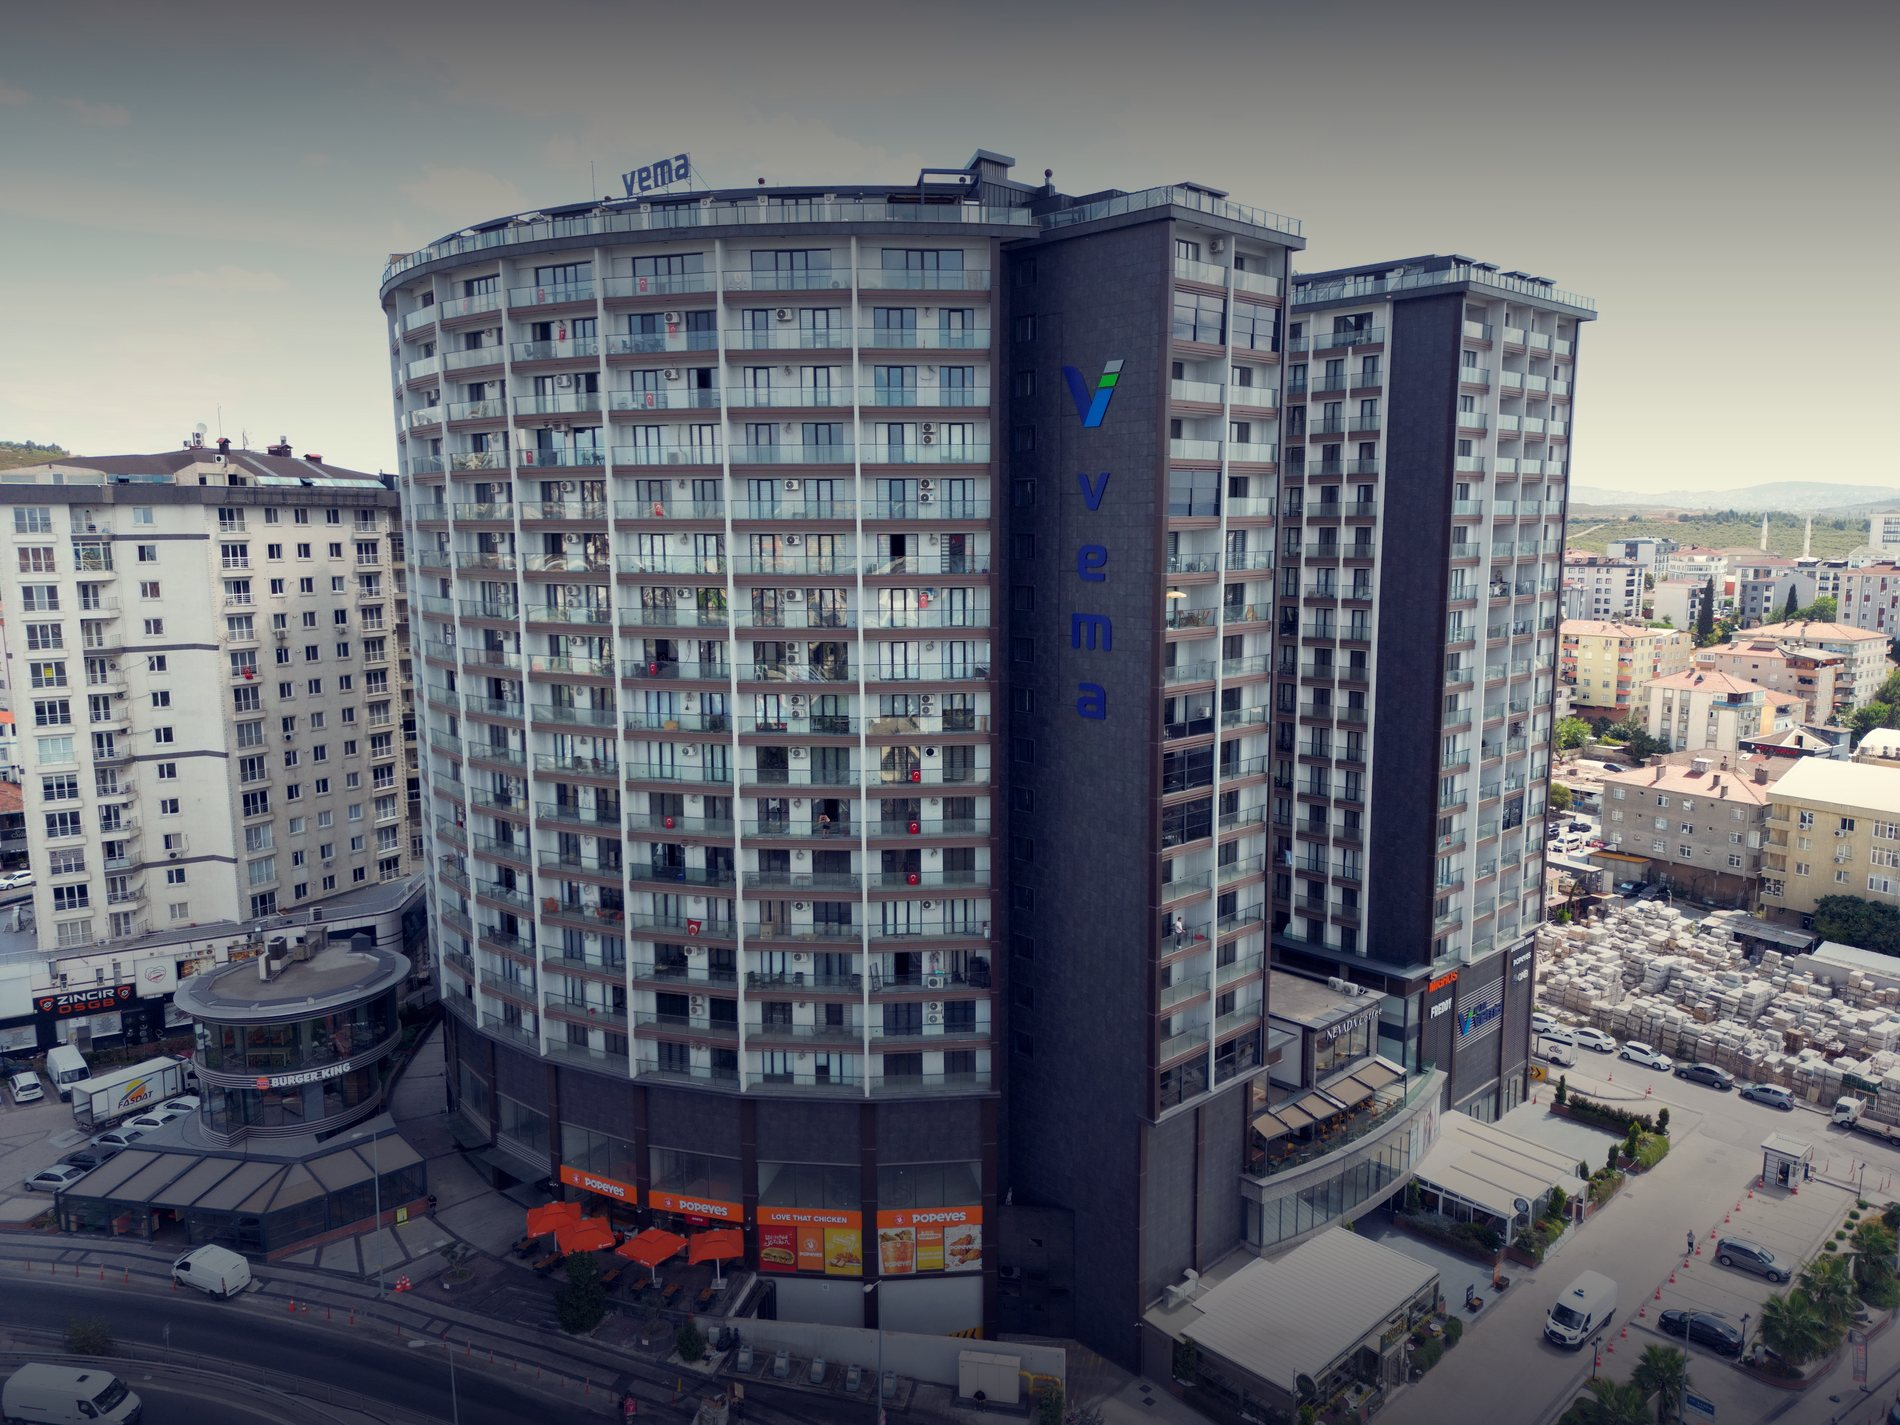
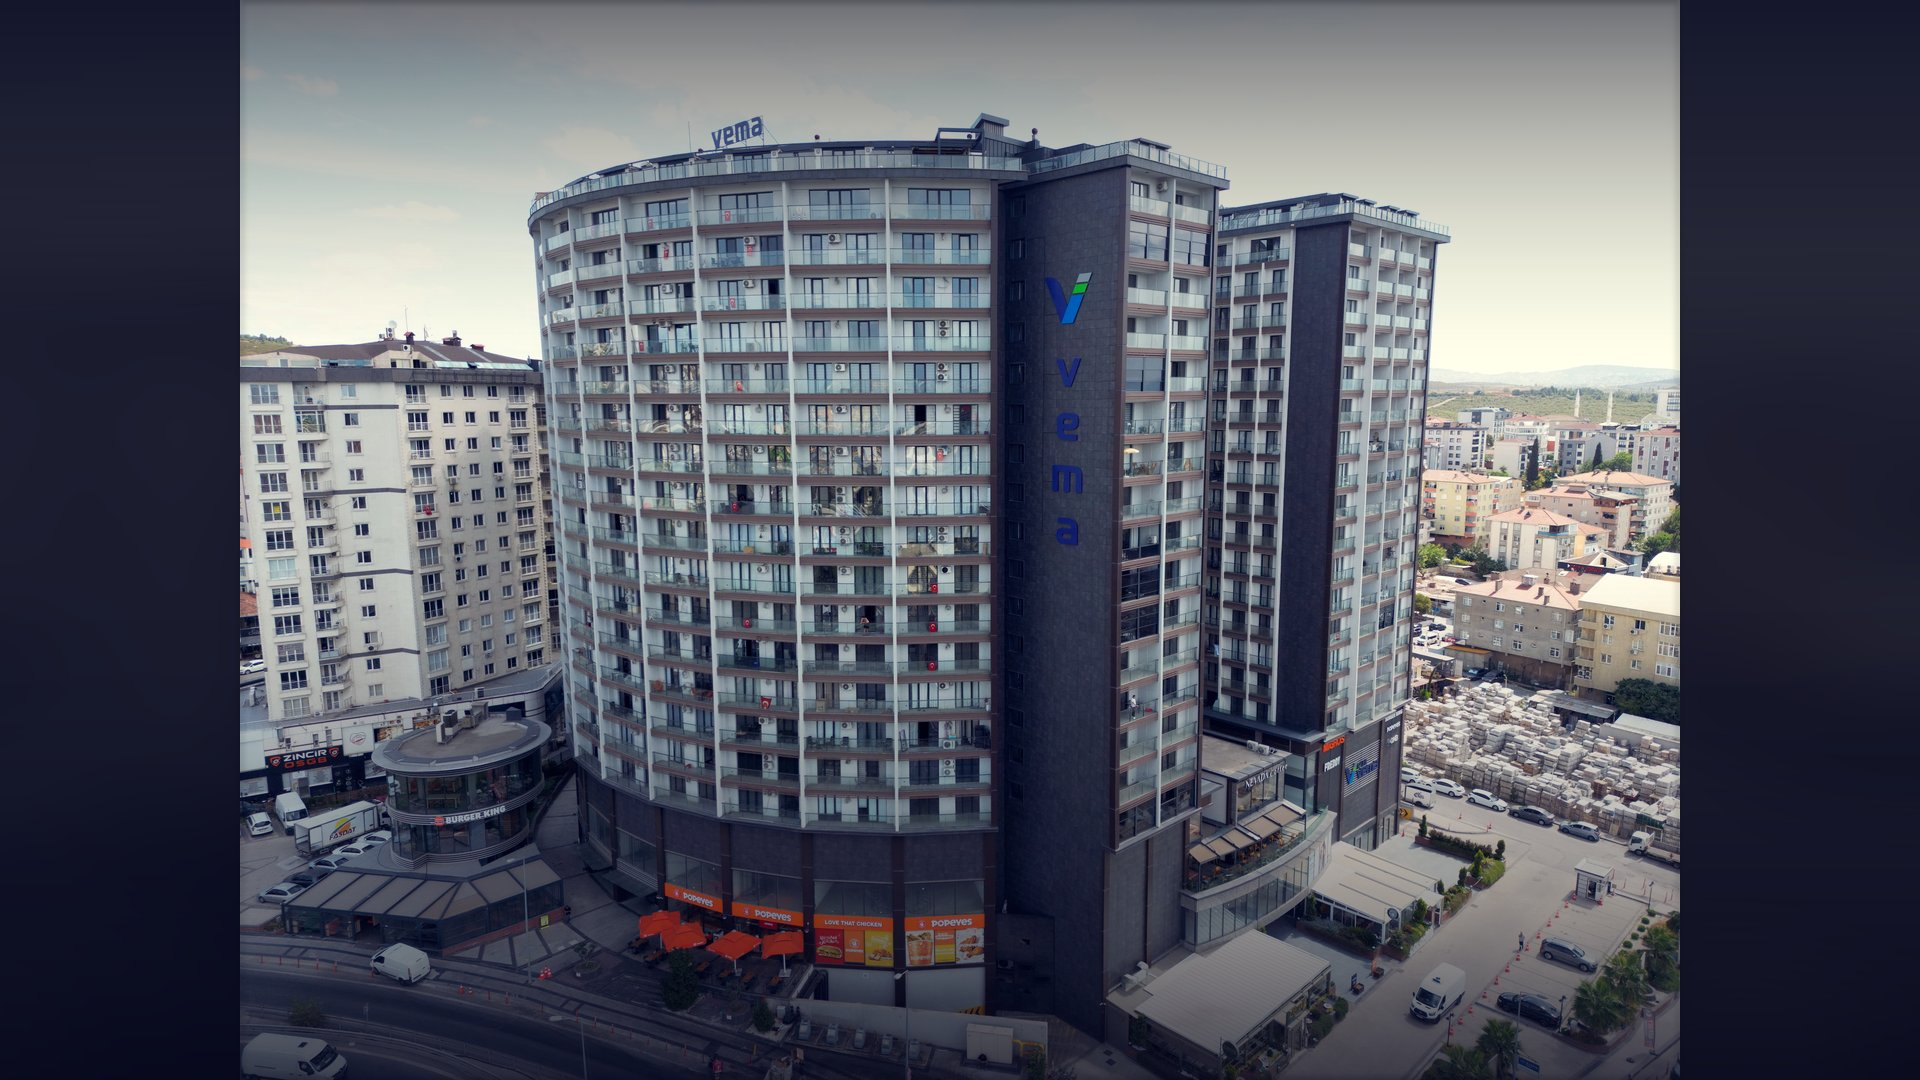
Fix Vema card: 16:9 blurred-fill image shows the full building; card matches ratio (no crop)

diff --git a/app/globals.css b/app/globals.css
@@ -820,6 +820,8 @@ h2.display { font-size: clamp(2.1rem, 4.6vw, 3.9rem); }
 .proj.span-12 { grid-column: span 12; }
 .proj.tall { min-height: 400px; }
 .proj.feature { min-height: 460px; }
+/* full-fit feature: card matches the image's 16:9 so the whole photo shows uncropped */
+.proj.feature-fit { min-height: 0; aspect-ratio: 16 / 9; }
 /* real project photo */
 .proj-photo { position: absolute; inset: 0; z-index: -1; width: 100%; height: 100%; object-fit: cover; transition: transform 1.1s var(--ease); }
 .proj:hover .proj-photo { transform: scale(1.05); }

diff --git a/components/Portfolio.tsx b/components/Portfolio.tsx
@@ -51,7 +51,7 @@ export default function Portfolio() {
           </Reveal>
 
           {/* Featured — Vema Tuzla */}
-          <Reveal className="proj span-12 feature">
+          <Reveal className="proj span-12 feature feature-fit">
             <img className="proj-photo" src="/work/vema.jpg" alt="Vema Tuzla" loading="lazy" />
             <div className="proj-meta">
               <div>

diff --git a/scripts/process_vema.py b/scripts/process_vema.py
@@ -1,57 +1,83 @@
 """
-Vema Tuzla — bright daytime drone shot needs stronger grading to sit in the
-dark navy/gold theme: tame the blown sky toward navy, warm grade, top+bottom fades.
+Vema Tuzla — bright daytime 4:3 drone shot that must show the WHOLE building
+inside a wide card. Technique: 16:9 canvas, blurred+navy ambient fill behind,
+the full sharp image contained (letterbox-free, no crop) centered on top.
 """
-from PIL import Image, ImageEnhance, ImageDraw
+from PIL import Image, ImageEnhance, ImageDraw, ImageFilter
 import os
 
-img = Image.open("images/vematuzla.JPG").convert("RGB")
+src = Image.open("images/vematuzla.JPG").convert("RGB")
 
-TARGET_W = 1900
-w, h = img.size
-img = img.resize((TARGET_W, round(h * TARGET_W / w)), Image.LANCZOS)
-w, h = img.size
-
-# deepen exposure a touch + contrast + saturation
-img = ImageEnhance.Brightness(img).enhance(0.94)
-img = ImageEnhance.Contrast(img).enhance(1.1)
+# --- brand grade on the source first ---
+img = ImageEnhance.Brightness(src).enhance(0.95)
+img = ImageEnhance.Contrast(img).enhance(1.09)
 img = ImageEnhance.Color(img).enhance(1.12)
 
-# brand-palette curve: gold highlights, navy shadows (stronger warm)
 px = img.load()
+w0, h0 = img.size
 lut = []
 for v in range(256):
     t = v / 255.0
-    r = v + int(16 * t)
-    g = v + int(7 * t) - int(5 * (1 - t))
-    b = v - int(14 * t) + int(16 * (1 - t))
+    r = v + int(15 * t)
+    g = v + int(6 * t) - int(4 * (1 - t))
+    b = v - int(12 * t) + int(15 * (1 - t))
     lut.append((max(0, min(255, r)), max(0, min(255, g)), max(0, min(255, b))))
-for y in range(h):
-    for x in range(w):
-        r, g, b = px[x, y]
-        px[x, y] = (lut[r][0], lut[g][1], lut[b][2])
+# apply via point LUT per-channel for speed
+rlut = [c[0] for c in lut]
+glut = [c[1] for c in lut]
+blut = [c[2] for c in lut]
+img = img.point(rlut + glut + blut)
 
-navy = Image.new("RGB", (w, h), (5, 6, 26))
+# --- 16:9 canvas ---
+CW, CH = 1920, 1080
 
-# top navy fade — tame the bright sky
-top_mask = Image.new("L", (w, h), 0)
-tmd = ImageDraw.Draw(top_mask)
-top_end = int(h * 0.42)
-for y in range(top_end):
-    a = int((1 - y / top_end) ** 1.4 * 165)  # strongest at very top
-    tmd.line([(0, y), (w, y)], fill=a)
-img = Image.composite(navy, img, top_mask)
+# background: cover-scale + heavy blur + navy darken
+bg = img.copy()
+scale = max(CW / w0, CH / h0)
+bg = bg.resize((round(w0 * scale), round(h0 * scale)), Image.LANCZOS)
+bx = (bg.width - CW) // 2
+by = (bg.height - CH) // 2
+bg = bg.crop((bx, by, bx + CW, by + CH))
+bg = bg.filter(ImageFilter.GaussianBlur(46))
+bg = ImageEnhance.Brightness(bg).enhance(0.5)
+bg = Image.blend(bg, Image.new("RGB", (CW, CH), (7, 9, 34)), 0.72)
 
-# bottom navy vignette — for title/tag legibility
-bot_mask = Image.new("L", (w, h), 0)
-bmd = ImageDraw.Draw(bot_mask)
-grad_start = int(h * 0.5)
-for y in range(grad_start, h):
-    a = int(((y - grad_start) / (h - grad_start)) ** 1.5 * 175)
-    bmd.line([(0, y), (w, y)], fill=a)
-img = Image.composite(navy, img, bot_mask)
+# foreground: contain-scale (full image, no crop), centered
+fscale = min(CW / w0, CH / h0)
+fg = img.resize((round(w0 * fscale), round(h0 * fscale)), Image.LANCZOS)
+fx = (CW - fg.width) // 2
+fy = (CH - fg.height) // 2
+
+canvas = bg.copy()
+canvas.paste(fg, (fx, fy))
+
+# top navy fade across the whole canvas — tame the bright sky in the sharp image too
+top = Image.new("L", (CW, CH), 0)
+td = ImageDraw.Draw(top)
+te = int(CH * 0.34)
+for y in range(te):
+    a = int((1 - y / te) ** 1.5 * 150)
+    td.line([(0, y), (CW, y)], fill=a)
+canvas = Image.composite(Image.new("RGB", (CW, CH), (7, 9, 34)), canvas, top)
+
+# soft shadow seam where sharp image meets blur (subtle inner edge)
+seam = Image.new("L", (CW, CH), 0)
+sd = ImageDraw.Draw(seam)
+sd.rectangle([fx, fy, fx + fg.width - 1, fy + fg.height - 1], outline=255, width=3)
+seam = seam.filter(ImageFilter.GaussianBlur(3))
+shadow = Image.new("RGB", (CW, CH), (0, 0, 0))
+canvas = Image.composite(shadow, canvas, seam.point(lambda a: int(a * 0.25)))
+
+# bottom navy vignette for title/tag legibility
+bot = Image.new("L", (CW, CH), 0)
+bd = ImageDraw.Draw(bot)
+gs = int(CH * 0.52)
+for y in range(gs, CH):
+    a = int(((y - gs) / (CH - gs)) ** 1.5 * 190)
+    bd.line([(0, y), (CW, y)], fill=a)
+canvas = Image.composite(Image.new("RGB", (CW, CH), (5, 6, 26)), canvas, bot)
 
 os.makedirs("public/work", exist_ok=True)
 out = "public/work/vema.jpg"
-img.save(out, "JPEG", quality=84, optimize=True, progressive=True)
-print("saved", out, img.size, round(os.path.getsize(out) / 1024), "KB")
+canvas.save(out, "JPEG", quality=85, optimize=True, progressive=True)
+print("saved", out, canvas.size, round(os.path.getsize(out) / 1024), "KB")